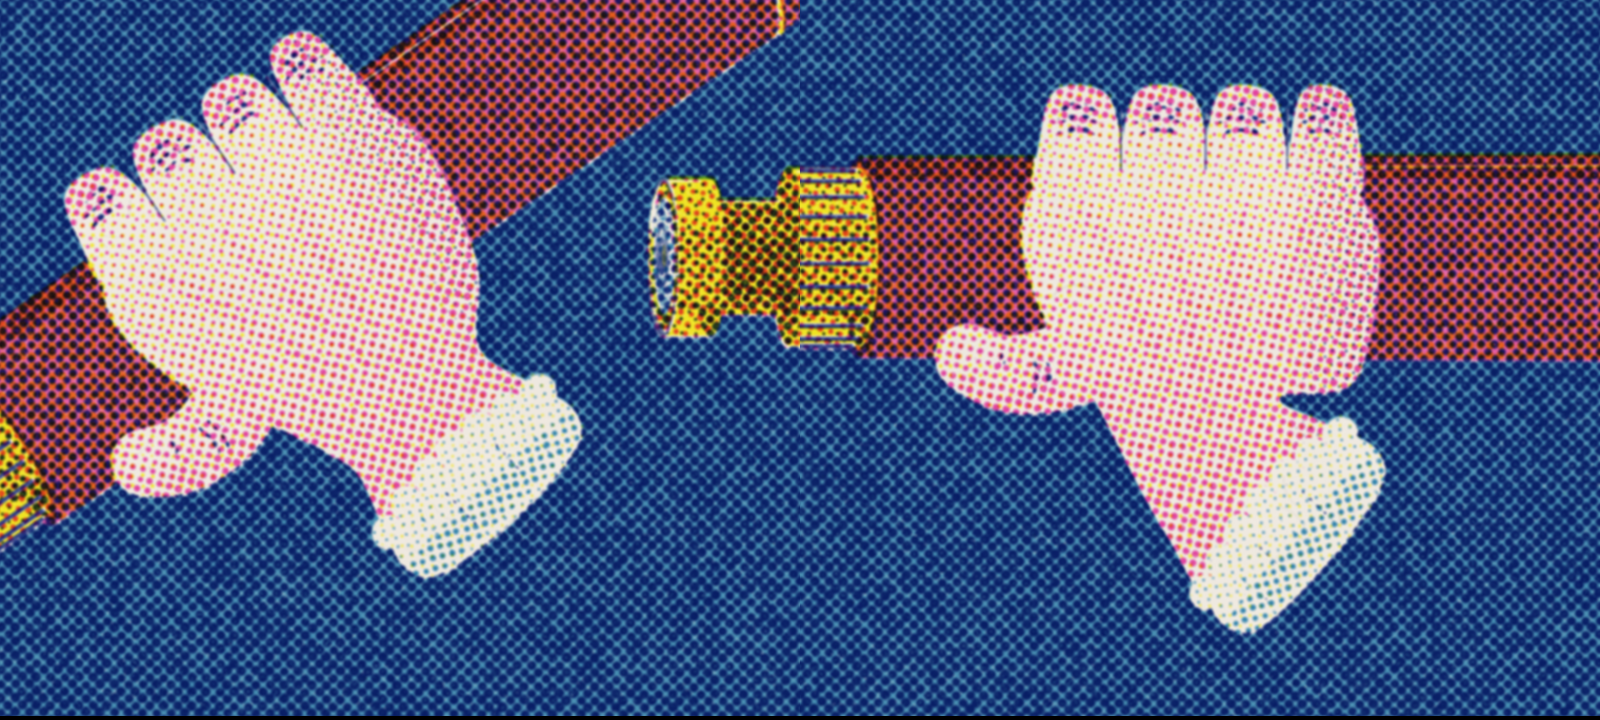
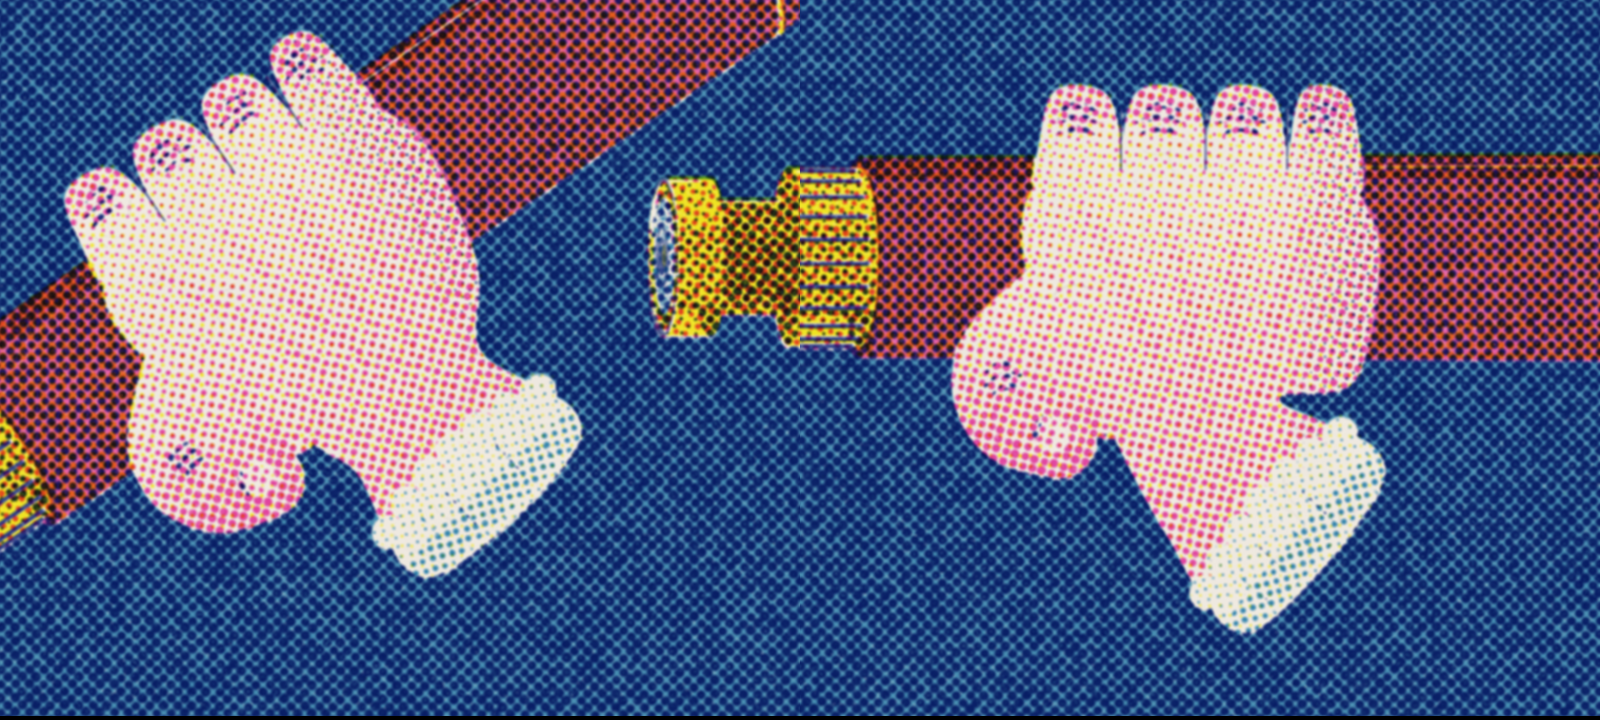
physics-history: the thumb closes the grip under the bar, opposite the fingers
Claude-Session: https://claude.ai/code/session_01FbC8jfwG91neyKwZD6gkGH

Changed region(s): [[0.0625, 0.4889, 0.2188, 0.7639], [0.5625, 0.3667, 0.7188, 0.6722]]

diff --git a/sandbox/2026-09-25-physics-history/hands-galileo.js b/sandbox/2026-09-25-physics-history/hands-galileo.js
@@ -124,13 +124,22 @@ const GalHands = (() => {
         const fingers = FO.map(([ac, w]) => { const top = -r - 12 - sq * 0.6; return [[ac - w / 2, -r + 8], [ac - w / 2, -r - 3], [ac - w * 0.3, top], [ac + w * 0.3, top - 0.5], [ac + w / 2, -r - 3], [ac + w / 2, -r + 8]]; });
         // the thumb: from the hand's edge on its side, along the tube's underside, its tip bent up
         // against it: seen from the side, both phalanges, the joint and the nail in profile
-        const TH = [[16, r - 7], [29, r + 1], [40, r + 2.5 - sq], [48, r - 0.5 - sq]];
-        const th = digit(TH, 18, 13);
+        // the thumb closes the grip from the other side: from its root at the hand's heel it bends
+        // under the bar's bottom edge and goes away round it, its tip pressing on the fingertips
+        // that come round from the far side; below the edge we see its bent joint and, just past
+        // it, the fingertips it presses on
+        const TH = [[30, r - 10], [42, r + 1], [40, r + 11 + sq * 0.3], [30, r + 15 + sq * 0.3]];
+        const th = digit(TH, 19, 15);
+        const TIPS = [[20, 13], [8, 13]].map(([x, w]) => [[x - w / 2, r + 4], [x + w / 2, r + 4], [x + w / 2 - 1, r + 12], [x, r + 15], [x - w / 2 + 1, r + 12]]);
         const HB = [[-31, -r + 11], [-24, -r + 3], [-8, -r + 1], [10, -r], [28, -r + 1.5], [36, -r + 8], [37, 0], [31, r - 4], [24, r + 6], add(W, side, 17), add(W1, side, 18), add(W1, side, -18), add(W, side, -17), [-28, r + 4], [-33, 2]];
         // one skin: every piece knocked out and inked alike, shaded through one clip
         // every outline wound the same way, so their union has no holes where they overlap
         const cw = (P) => { let a = 0; for (let i = 0; i < P.length; i++) { const [x0, y0] = P[i], [x1, y1] = P[(i + 1) % P.length]; a += x0 * y1 - x1 * y0; } return a < 0 ? P.slice().reverse() : P; };
-        const traced = [...fingers.map((f) => Ph.sample(f, true, 10)), th, Ph.sample(HB, true, 10)].map(cw);
+        // the fingertips under the bar, behind the thumb, in shade
+        for (const tp of TIPS) put(press, (g) => smooth(g, tp), SKIN_SH);
+        for (const tp of TIPS) { const c = tp[3]; line(press, [[c[0] - 3, c[1] - 2.5], [c[0] + 3, c[1] - 2.5]], taper(1.2), CREASE, { knock: false }); }
+        const WEB = [[20, r - 6], [38, r - 4], [40, r + 8], [30, r + 14], [18, r + 12]]; // the thumb's web: no gap between it and the heel
+        const traced = [...fingers.map((f) => Ph.sample(f, true, 10)), th, Ph.sample(WEB, true, 10), Ph.sample(HB, true, 10)].map(cw);
         const all = (g) => { g.beginPath(); for (const P of traced) { P.forEach(([x, y], i) => (i ? g.lineTo(x, y) : g.moveTo(x, y))); g.closePath(); } };
         press.knockout((g) => { all(g); g.fill('nonzero'); });
         ink(press, (g) => { for (const P of traced) { P.forEach(([x, y], i) => (i ? g.lineTo(x, y) : g.moveTo(x, y))); g.closePath(); } }, SKIN);
@@ -140,7 +149,7 @@ const GalHands = (() => {
         // the fingers turn away over the top; the thumb's round goes under, into shade
         ink(press, (g) => g.rect(-60, -r - 20, 130, 14), { 'pink.s': (g) => Riso.ramp(g, 0, -r + 2, 0, -r - 12, 0, 0.3) });
         // the thumb's underside turns from the light; the tube's edge shades its top a little
-        ink(press, (g) => g.rect(20, r - 4, 40, 20), { 'pink.s': (g) => Riso.ramp(g, 0, r + 2, 0, r + 16, 0.02, 0.3) });
+        ink(press, (g) => g.rect(22, r - 4, 40, 26), { 'pink.s': (g) => Riso.ramp(g, 0, r + 2, 0, r + 18, 0.04, 0.32) });
                 for (const [ac] of FO) line(press, [[W[0] + (ac - 2) * 0.25, W[1] - 8], [ac * 0.7, 2], [ac, -r + 9]], taper(3, 0.3, 0.3), { 'pink.s': 0.1 }, { knock: false });
         press.restore();
         // no lines across the hand: the knuckles are light bumps, the finger joints wrinkles
@@ -150,8 +159,9 @@ const GalHands = (() => {
         }
         for (let i = 0; i < 3; i++) { const x = (FO[i][0] - FO[i][1] / 2 + FO[i + 1][0] + FO[i + 1][1] / 2) / 2; line(press, [[x, -r - 9], [x, -r + 3]], taper(1.4, 0.3, 0.2), SHADOW); }
         // where the thumb leaves the hand, its joint's wrinkles, the nail in profile at the tip
-        wrinkles(press, [34, r + 3], 0.05, 12, 2);
-        nail(press, [45, r - 1.2 - sq], -0.35, 4.4, 8);
+        // the thumb's bent joint: its wrinkles on the knuckle, the nail edge seen end on
+        wrinkles(press, [41, r + 4], Math.PI / 2 + 0.3, 13, 3);
+        nail(press, [31, r + 14 + sq * 0.3], Math.PI - 0.3, 7, 7);
         cuff(press, W1, fa, 40, 0);
         press.restore();
     }
